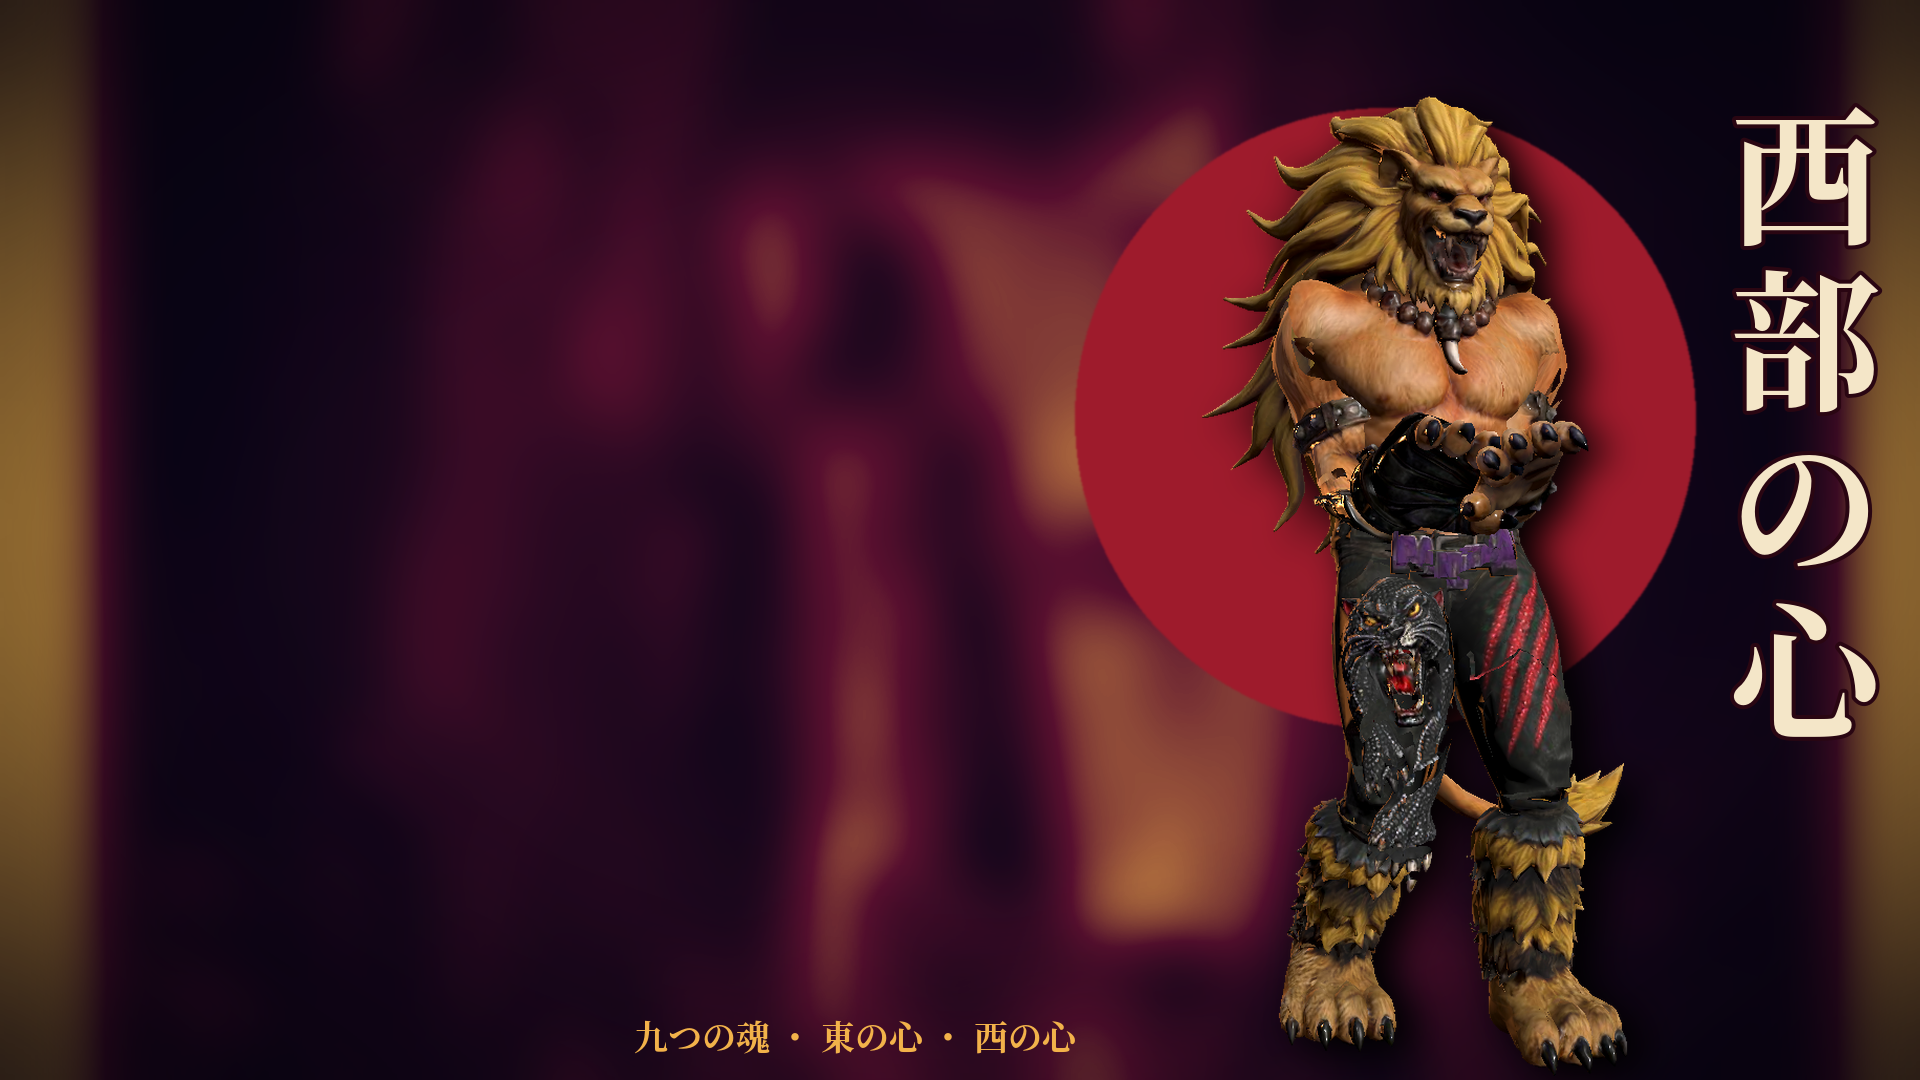
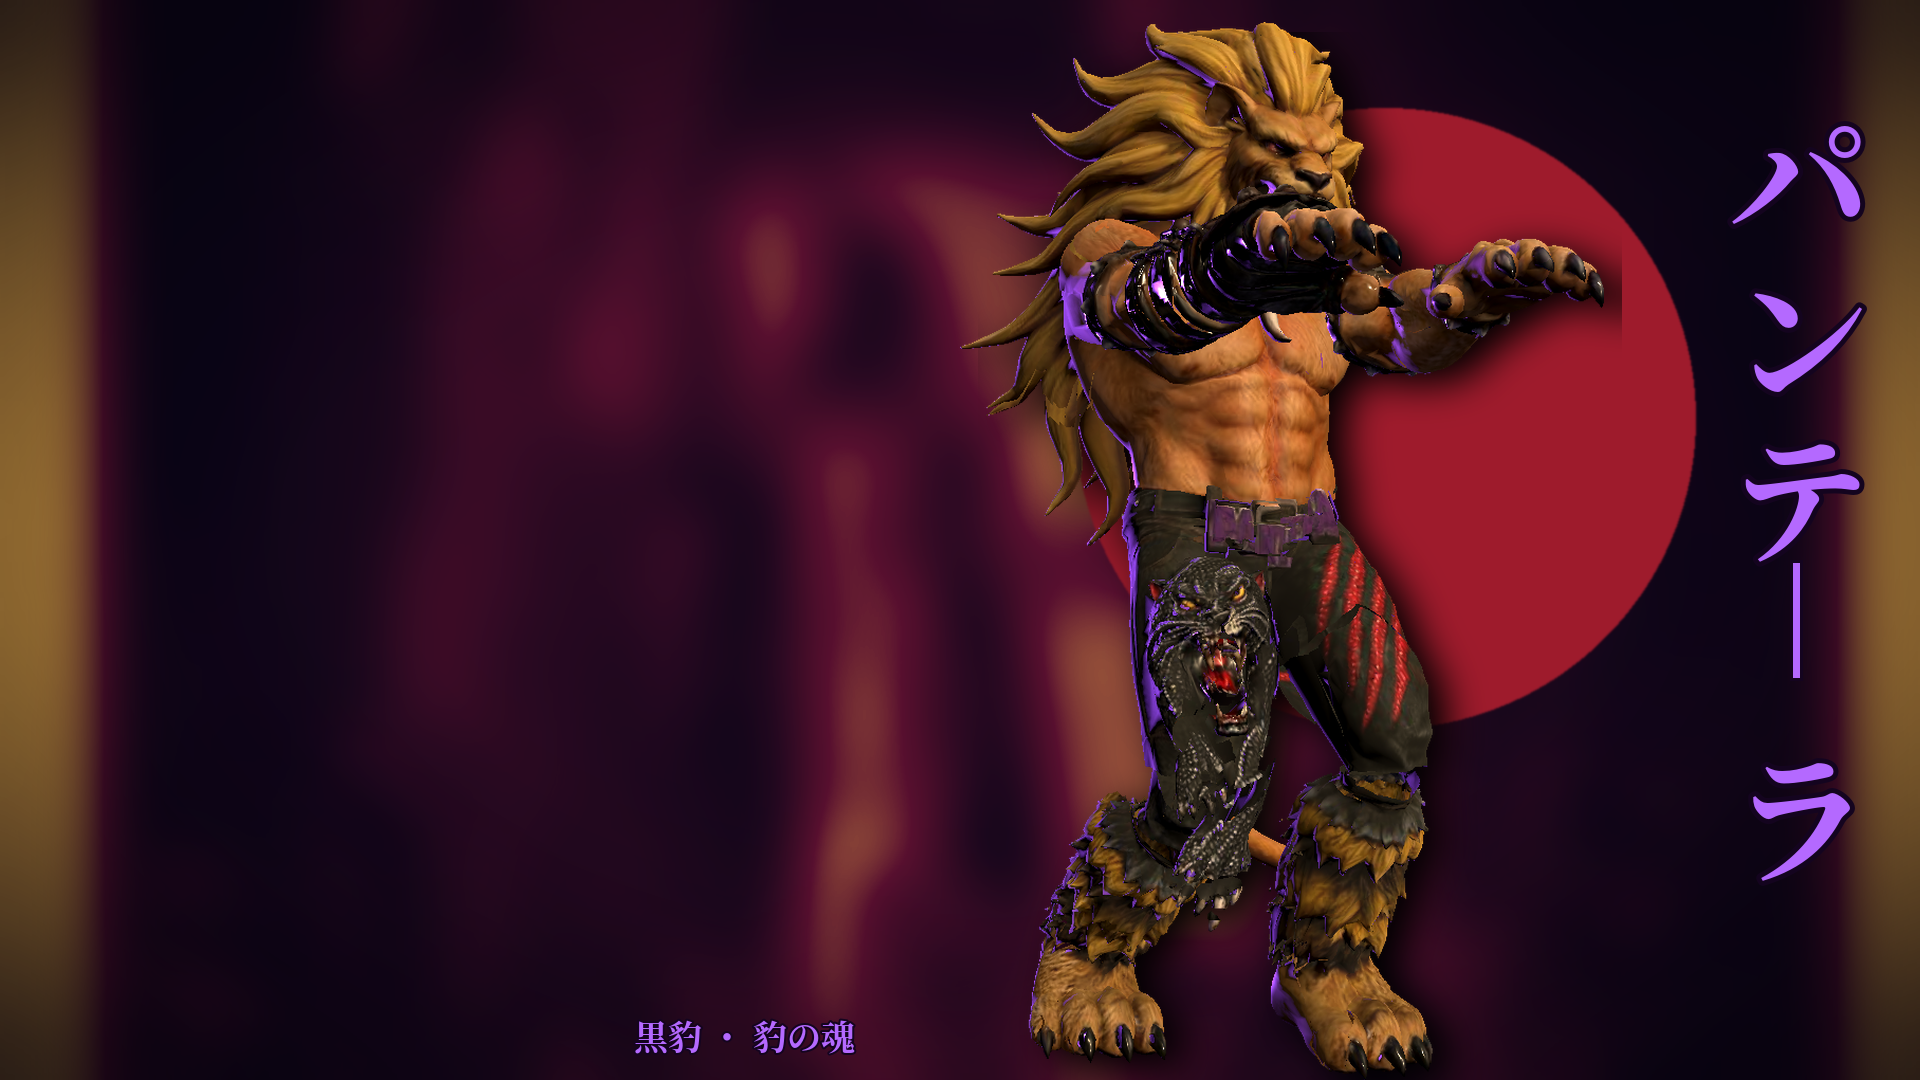
UI title: purple パンテーラ/黒豹 lettering + Pantera P1-attire hero (grab pose) rendered from pantera_leoman.glb

Changed region(s): [[0.3125, 0.0, 0.8438, 1.0], [0.9062, 0.0917, 1.0, 0.7944], [0.9062, 0.7944, 0.9375, 0.825]]

diff --git a/game/ui-wh/ui.css b/game/ui-wh/ui.css
@@ -15,9 +15,9 @@ body[data-screen="pause"] .wall, body[data-screen="results"] .wall { filter:blur
 .logo { position:absolute; left:6vw; top:14vh; }
 .logo-en { font-size:9vw; font-weight:700; line-height:.85; text-shadow:0 .4vw 0 var(--blood); }
 .logo-en b { display:block; color:var(--gold); }
-.logo-jp { font-family:var(--jp); font-size:3vw; margin-top:1vw; letter-spacing:.6em; }
+.logo-jp { font-family:var(--jp); font-size:3vw; margin-top:1vw; letter-spacing:.3em; color:#b469ff; text-shadow:0 .2vw 0 #14041f; }
 .press { position:absolute; left:6vw; bottom:18vh; font-size:2.4vw; animation:blink 1.4s infinite; }
-.press span { font-family:var(--jp); color:var(--gold); }
+.press span { font-family:var(--jp); color:#b469ff; }
 .legal { position:absolute; left:6vw; bottom:5vh; font-size:1vw; opacity:.7; }
 @keyframes blink { 50% { opacity:.25; } }
 

diff --git a/game/ui-wh/index.html b/game/ui-wh/index.html
@@ -14,7 +14,7 @@
 <div id="wall" class="wall"></div>
 
 <section data-screen="title" class="screen title">
-  <div class="logo"><div class="logo-en">WESTERN<b>HEART</b></div><div class="logo-jp">西部の心</div></div>
+  <div class="logo"><div class="logo-en">WESTERN<b>HEART</b></div><div class="logo-jp">パンテーラ ・ 黒豹</div></div>
   <div class="press">PRESS START <span>・ スタート</span></div>
   <div class="legal">TONG-NOU TRIAL · a lost multiverse bastard child</div>
 </section>

diff --git a/game/ui-wh/tools/make_wallpaper.py b/game/ui-wh/tools/make_wallpaper.py
@@ -3,7 +3,7 @@ Original game/assets/ui/title-bg.png is read-only input and is never modified.
 Transform: upscale + heavy blur (source characters become abstract light),
 indigo/crimson/gold duotone, the original logo band painted over, Pantera (rendered
 from his own GLB) composited as the hero, and Western Heart universe text in
-Japanese styling.  Output: game/ui-wh/art/wallpaper_wh.png
+Japanese styling (purple パンテーラ / 黒豹, owner 2026-10-14).  Output: game/ui-wh/art/wallpaper_wh.png
 Run: python3 game/ui-wh/tools/make_wallpaper.py
 """
 from pathlib import Path
@@ -11,7 +11,7 @@ from PIL import Image, ImageFilter, ImageOps, ImageDraw, ImageFont, ImageChops
 G = Path(__file__).resolve().parents[2]
 SRC = G / "assets/ui/title-bg.png"
 OUT = G / "ui-wh/art/wallpaper_wh.png"
-HERO = G / "ui-wh/portraits/pantera_full.png"
+HERO = G / "ui-wh/portraits/pantera_hero.png"   # P1 attire, grab pose (lab/game/tools/render_title_hero.gd)
 JP = "/usr/share/fonts/opentype/noto/NotoSerifCJK-Bold.ttc"
 W, H = 1920, 1080
 
@@ -33,17 +33,21 @@ d.ellipse((W*0.56, H*0.10, W*0.56 + 620, H*0.10 + 620), fill="#9e1b2c")
 bg = bg.filter(ImageFilter.GaussianBlur(1))
 # hero from the owner's GLB
 hero = Image.open(HERO).convert("RGBA")
-hero = hero.resize((int(hero.width * 1.05), int(hero.height * 1.05)), Image.LANCZOS)
+k = (H * 0.98) / hero.height
+hero = hero.resize((int(hero.width * k), int(hero.height * k)), Image.LANCZOS)
 shadow = Image.new("RGBA", hero.size, (0, 0, 0, 0)); shadow.putalpha(hero.getchannel("A").filter(ImageFilter.GaussianBlur(18)))
-x, y = int(W*0.60), H - hero.height + 40
+x, y = int(W*0.50), H - hero.height
 bg.paste(shadow, (x + 18, y + 10), shadow); bg.paste(hero, (x, y), hero)
 # universe text, Japanese styling (vertical kanji)
 d = ImageDraw.Draw(bg)
-f = ImageFont.truetype(JP, 150)
-for i, ch in enumerate("西部の心"):
-    d.text((W - 190, 60 + i*165), ch, font=f, fill="#f4e6c8", stroke_width=4, stroke_fill="#2a0612")
+PURPLE = "#b469ff"   # owner: Japanese lettering in purple, reading Pantera
+f = ImageFont.truetype(JP, 140)
+for i, ch in enumerate("パンテーラ"):
+    if ch == "ー":   # long-vowel mark turns vertical in tategaki
+        d.rectangle((W - 130, 70 + i*160 + 10, W - 118, 70 + i*160 + 130), fill=PURPLE, outline="#14041f", width=3); continue
+    d.text((W - 190, 70 + i*160), ch, font=f, fill=PURPLE, stroke_width=5, stroke_fill="#14041f")
 f2 = ImageFont.truetype(JP, 34)
-d.text((W*0.33, H - 70), "九つの魂 ・ 東の心 ・ 西の心", font=f2, fill="#f2b24a")
+d.text((W*0.33, H - 70), "黒豹 ・ 豹の魂", font=f2, fill=PURPLE, stroke_width=2, stroke_fill="#14041f")
 OUT.parent.mkdir(parents=True, exist_ok=True)
 bg.save(OUT, optimize=True)
 print("wrote", OUT, bg.size)
